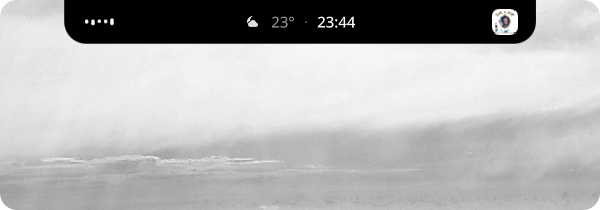
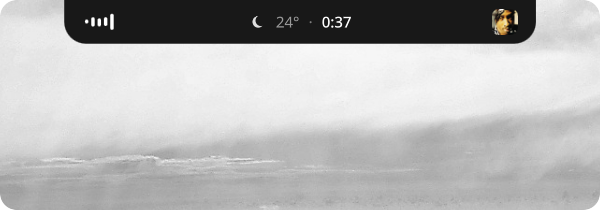
Say what it needs, what to do when it breaks, and show it as it is now
The README described 0.3.0 and said one thing that had not been true
since 0.4.0 -- that the settings open with a right click on the dock,
which is neither the only way in nor necessarily a way in at all, since
that click is yours to point elsewhere. Two lines changed and nothing
else: the feature list is long enough without a second pass over it.

docs/distributions.md gains what it needs. Every number in it was met
on a real machine: Qt 6.10, because 6.8 crashes the settings window on
Debian 13 and 6.10.2 is fine on Kubuntu; Quickshell 0.3.0, which is
what Debian and NixOS carry; kdotool 0.2.3, the old one NixOS has,
which turned out to hold the four commands the dock uses. Plus what
each of the ordinary dependencies is actually for, since "install
sqlite3" without a reason is a thing people skip.

docs/troubleshooting.md is new, nine questions long, and every one of
them has actually been asked in the last week. Where there is nothing
to be done it says so: the notification service goes to whoever asked
first and stopping plasmashell is only a real answer if you were
leaving Plasma's shell anyway, and a Wine tray menu appears where Wine
decides to put it.

The screenshots are retaken against the same wallpaper, at the same
sizes and the same framing -- the island and dock measured out at
exactly the coordinates written down in September, which is the point
of having written them down. They show what changed: the launcher's
[…]

diff --git a/docs/troubleshooting.md b/docs/troubleshooting.md
@@ -1,0 +1,139 @@
+# When something does not work
+
+Everything here has actually happened, on a real machine, and most of
+it is not a fault: it is Shima meeting a desktop that does things
+differently. Each answer says what to do and, where it matters, why
+nothing can be done.
+
+## Where is the log?
+
+Shima writes to the session journal under the name of its launcher:
+
+```bash
+journalctl --user -f | grep shima
+```
+
+The first run says three or four things about files that do not exist.
+Those are gone as of 0.5.0 — a first run has no settings file because
+nothing has written one yet, and saying so read like a fault.
+
+## Nothing is blurred behind the dock
+
+Your Plasma is older than 6.7. The blur goes through a Wayland
+protocol that arrived in that version, and below it the panels are
+drawn solid instead. Shima says so once in the log:
+
+```
+Cannot enable background effect as ext-background-effect-v1 is not
+supported by the current compositor.
+```
+
+Nothing is lost by having it off — the default look has it off anyway,
+because translucency without blur is a different effect and not a
+dimmer version of the same one. And this is about the version of
+Plasma, not about your distribution: Fedora went from one to the other
+on its own, just by updating.
+
+## My notifications still come from Plasma
+
+Whoever asks for the notification service first keeps it, and Plasma
+asks too. Which of you wins varies from machine to machine — on some
+Shima serves them and its centre fills up, on others they keep going
+to Plasma and Shima's stays empty.
+
+Removing Plasma's panels does not settle it: `plasmashell` holds the
+service whether it is showing a panel or not. Stopping it hands the
+service over at once:
+
+```bash
+systemctl --user stop plasma-plasmashell
+```
+
+That is a real answer only if you were going to stop using Plasma's
+own shell anyway. Otherwise it is worth knowing rather than worth
+doing.
+
+## Right clicking a tray icon does nothing
+
+If it is a Windows program under Wine — Ubisoft Connect, the EA app,
+Battle.net — its menu now opens, as of the version after 0.5.0. Two
+things to expect, and neither is fixable from here: the menu appears
+where Wine decides to put it, which is not necessarily beside the
+dock, and the first click sometimes shows the program's name instead
+of the menu. Clicking again brings the menu up.
+
+If it is an ordinary program and nothing happens at all, that is worth
+reporting.
+
+## Meta stopped opening the launcher
+
+Two things take the key away, and both give it back.
+
+The settings window takes it while it waits for you to press a new
+combination — otherwise pressing Meta would open the launcher instead
+of being typed into the box. If the shell dies right then the key used
+to stay gone for the rest of the session; as of the version after
+0.5.0 it comes back on its own within a minute.
+
+The other is another program holding the same combination. Shima
+borrows it and hands it back when you change or uninstall it, and the
+settings page says whose it was.
+
+If it is neither, the helper that owns the shortcut may not be
+running:
+
+```bash
+pgrep -af shima-shortcuts
+```
+
+It starts with the shell, so restarting Shima starts it again.
+
+## The settings window closes the whole shell
+
+You are on Debian 13, or on something else carrying Qt 6.8. The window
+is built out of Qt and that version crashes while building it; the
+same window opens on Qt 6.10 and 6.11 with the very same Quickshell,
+so it is Qt and not the shell. Debian freezes Qt until Debian 14.
+
+Everything is settable by hand meanwhile, and every option is written
+down in [settings.md](settings.md).
+
+## An application is open but not in the dock
+
+The dock knows what is open by asking KWin for the window and matching
+it against the desktop files installed. Two shapes are known to go
+wrong, and both are handled as of 0.5.0:
+
+- A window that announces itself in reverse domain form while its
+  desktop file gives the short name.
+- A game you dragged into Steam yourself, which has no desktop file
+  and no manifest of its own.
+
+If yours is neither, what the window calls itself is the place to
+start:
+
+```bash
+kdotool search --class '.*' | while read w; do kdotool getwindowclassname "$w"; done
+```
+
+## It does not start at all
+
+Run the launcher from a terminal and read what it says:
+
+```bash
+shima
+```
+
+It tells a crash from a stop: a shell that crashes is started again, a
+shell you stopped stays stopped. If it keeps crashing, the line before
+the last is usually the one that matters.
+
+## How do I get rid of it?
+
+```bash
+shima --cleanup     # hands the Meta key back to Plasma first
+```
+
+Then remove it the way it went in — `paru -R shima-shell`, or the
+installer with `--uninstall`. Add `--purge` to that last one to take
+your settings with it.

diff --git a/README.md b/README.md
@@ -18,7 +18,7 @@ system's native services.
 album art. Hovering expands it into one of four modes, switched with the
 scroll wheel or by clicking the dots:
 
-- **Media** — album art, track and transport controls
+- **Media** — album art, track, transport controls and a progress bar
 - **Control centre** — Wi-Fi, Bluetooth, mute and volume
 - **Status** — CPU, memory and network throughput
 - **Calendar** — month view with a pomodoro timer
@@ -55,7 +55,8 @@ program that copied it marked as a password is not kept at all.
 card, with history that outlasts the shell restarting, do not disturb,
 and silencing during a focus session.
 
-**Settings.** Right click the dock. Position, auto-hide, opacity,
+**Settings.** In your application menu, or a right click on the dock —
+which is yours to point somewhere else. Position, auto-hide, opacity,
 background blur, corner radius, icon shape and size, accent colour,
 per-monitor placement, per-monitor brightness, night light, power
 profile and keeping the machine awake. Language: English, Spanish,
@@ -92,8 +93,9 @@ wget -qO- https://raw.githubusercontent.com/ayozetr/shima-shell/main/install.sh 
 It asks whether to start Shima when you log in. If you say no there,
 the switch is in Settings · General · Start with the system.
 
-For how it goes on each distribution, see
-[docs/distributions.md](docs/distributions.md).
+For what it needs and how it goes on each distribution, see
+[docs/distributions.md](docs/distributions.md). If something is not
+working, [docs/troubleshooting.md](docs/troubleshooting.md).
 
 ## Uninstalling
 
@@ -153,9 +155,11 @@ MERCHANTABILITY or FITNESS FOR A PARTICULAR PURPOSE. See the
 Everything under `assets/` — the name, the icon and the logotype — is
 **not** covered by the GPL. All rights are reserved by the author.
 
-The one exception is `assets/vendor/`, which holds the GitHub and Ko-fi
-marks used in the settings window to link to those two places. Those
-belong to their owners; see the note beside them.
+The one exception is `assets/vendor/`, which holds work that is not
+ours: the GitHub and Ko-fi marks used in the settings window to link to
+those two places, and the wallpaper the screenshots were taken against.
+Those belong to their owners and carry their own terms; see the note
+beside them.
 
 They may be used in forks made to contribute back to this project —
 see [CONTRIBUTING](CONTRIBUTING.md) — but not in an independent one.

diff --git a/docs/distributions.md b/docs/distributions.md
@@ -15,6 +15,33 @@ work all the same.
 | **Debian 13 (trixie)** | Everything works except the settings window, which takes the shell down when it opens. Set things by hand meanwhile — every option is in [settings.md](settings.md). |
 | **KDE Neon** | Nobody builds Quickshell for its base (Ubuntu 24.04), so you have to build it yourself first. With that done, everything works, blur included. |
 
+## What it needs
+
+| | Version |
+|---|---|
+| **KDE Plasma** | 6, on Wayland |
+| **Qt** | 6.10 |
+| **Quickshell** | 0.3.0 |
+| **kdotool** | 0.2.3 |
+| **Plasma, for the blur** | 6.7 |
+
+And these, which your distribution almost certainly has:
+
+| | For |
+|---|---|
+| **python3** with **PyGObject** | the global shortcut, which is a program of its own: Quickshell cannot own a name on D-Bus and KDE hands shortcuts out over one |
+| **wl-clipboard** | the clipboard history, and the launcher's copy button. Wayland offers no other way in |
+| **sqlite3** | reading what KDE has open and had open recently |
+| **xdg-utils** | opening a file or a folder with whatever handles it |
+| **curl** | the weather, and fetching kdotool on the way in |
+
+Optional, and each one turns off exactly one thing: **cava** for the
+audio visualiser, **fd** for faster file search in the launcher,
+**libnotify** for sending yourself a test notification.
+
+The installer works all of this out, asks before installing anything,
+and tells you what it skipped.
+
 ## Blur needs Plasma 6.7
 
 The background behind the dock, the island and the launcher is blurred
